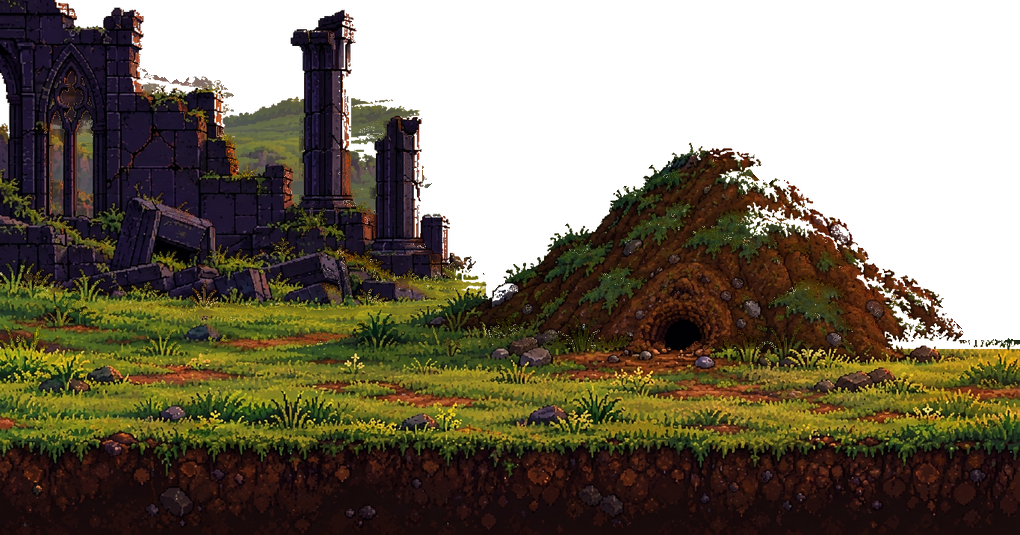
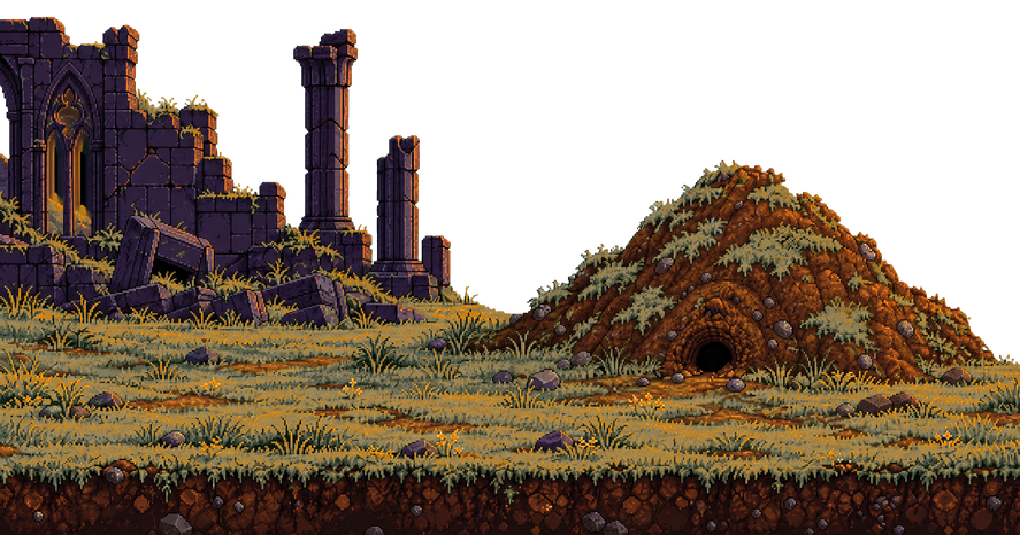
TITLE: camada Principal recriada 100% (opção escolhida pelo usuário) + regra de 2+ opções de imagem
- layer2 recriada do zero via generate_image (2 opções, usuário escolheu), recorte
  chroma-key numérico, pixel chunky 2x, 1020x535 exato (blit 1:1)
- FX do formigueiro realinhado à nova entrada: 0.72/0.62 -> 0.71/0.67 (render.js)
- REGRAS_DE_TRABALHO.md Regra 6: sempre mostrar 2+ opções da mesma imagem p/ escolha
- MEGA_ARQUIVO.md: bloco REGRAS sincronizado byte-a-byte + hash do rodapé (docs.mjs ok)

diff --git a/game/js/render.js b/game/js/render.js
@@ -718,8 +718,8 @@ function ensureMotes() {
   // FASE 1 FINAL - partículas essência subindo do formigueiro central (escolha particulas)
   for (let i = 0; i < 12; i++) {
     titleEssence.push({
-      x: VIEW_W * 0.72 + (Math.random() - 0.5) * 30,
-      y: VIEW_H * 0.62 + Math.random() * 20,
+      x: VIEW_W * 0.71 + (Math.random() - 0.5) * 30,
+      y: VIEW_H * 0.67 + Math.random() * 20,
       vx: (Math.random() - 0.5) * 8,
       vy: - (12 + Math.random() * 18),
       size: 0.8 + Math.random() * 1.6,
@@ -810,8 +810,8 @@ export function drawTitleMotes(ctx, time) {
     e.y += e.vy * 0.016;
     e.life += 0.016 * 0.3;
     if (e.y < VIEW_H * 0.35 || e.life > 1) {
-      e.x = VIEW_W * 0.72 + (Math.random() - 0.5) * 30;
-      e.y = VIEW_H * 0.62 + Math.random() * 20;
+      e.x = VIEW_W * 0.71 + (Math.random() - 0.5) * 30;
+      e.y = VIEW_H * 0.67 + Math.random() * 20;
       e.vx = (Math.random() - 0.5) * 8;
       e.vy = - (12 + Math.random() * 18);
       e.life = 0;
@@ -902,8 +902,8 @@ export function drawTitleBg(ctx) {
     ctx.globalCompositeOperation = "lighter";
     // luz pulsante amarela quente na entrada do formigueiro
     const pulse = 0.75 + Math.sin(time * 1.6) * 0.22;
-    const anthillFx = VIEW_W * 0.72 + mainOffX * 0.3;
-    const anthillFy = VIEW_H * 0.62 + mainOffY * 0.2;
+    const anthillFx = VIEW_W * 0.71 + mainOffX * 0.3;
+    const anthillFy = VIEW_H * 0.67 + mainOffY * 0.2;
     const rg = ctx.createRadialGradient(anthillFx, anthillFy, 2, anthillFx, anthillFy, 52);
     rg.addColorStop(0, `rgba(255,212,121,${0.22 * pulse})`);
     rg.addColorStop(0.4, `rgba(255,160,60,${0.12 * pulse})`);

diff --git a/MEGA_ARQUIVO.md b/MEGA_ARQUIVO.md
@@ -491,6 +491,10 @@ Ao final de cada tarefa, apresentar um **checklist de conferência** com este fo
   FUMIGA (paleta escura violeta/âmbar, contorno limpo, leitura clara em tamanho pequeno).
 - Antes de gerar, observar os sprites/atlas existentes (`game/assets/`) para **combinar paleta,
   escala de pixel, sombreamento e silhueta** — a arte nova não pode parecer "colada de fora".
+- **Sempre mostrar 2 ou mais opções da mesma imagem para o usuário escolher** (ex.:
+  `offer_options` do `generate_image`): nenhuma arte entra no jogo por decisão só do agente —
+  o usuário aprova comparando alternativas lado a lado. Vale para geração nova, recriação
+  ("recrie 100%") e edição de arte existente; a escolhida ainda passa pela Regra 10.
 - Imagens entram otimizadas (Regra 5): tamanho certo para o uso, sem peso desnecessário.
 
 ---
@@ -1937,7 +1941,7 @@ parte dos blocos originais.
 
 | Arquivo original | Bytes preservados | SHA-256 |
 |---|---:|---|
[5 lines of base64/hex data omitted]

diff --git a/REGRAS_DE_TRABALHO.md b/REGRAS_DE_TRABALHO.md
@@ -104,6 +104,10 @@ Ao final de cada tarefa, apresentar um **checklist de conferência** com este fo
   FUMIGA (paleta escura violeta/âmbar, contorno limpo, leitura clara em tamanho pequeno).
 - Antes de gerar, observar os sprites/atlas existentes (`game/assets/`) para **combinar paleta,
   escala de pixel, sombreamento e silhueta** — a arte nova não pode parecer "colada de fora".
+- **Sempre mostrar 2 ou mais opções da mesma imagem para o usuário escolher** (ex.:
+  `offer_options` do `generate_image`): nenhuma arte entra no jogo por decisão só do agente —
+  o usuário aprova comparando alternativas lado a lado. Vale para geração nova, recriação
+  ("recrie 100%") e edição de arte existente; a escolhida ainda passa pela Regra 10.
 - Imagens entram otimizadas (Regra 5): tamanho certo para o uso, sem peso desnecessário.
 
 ---
